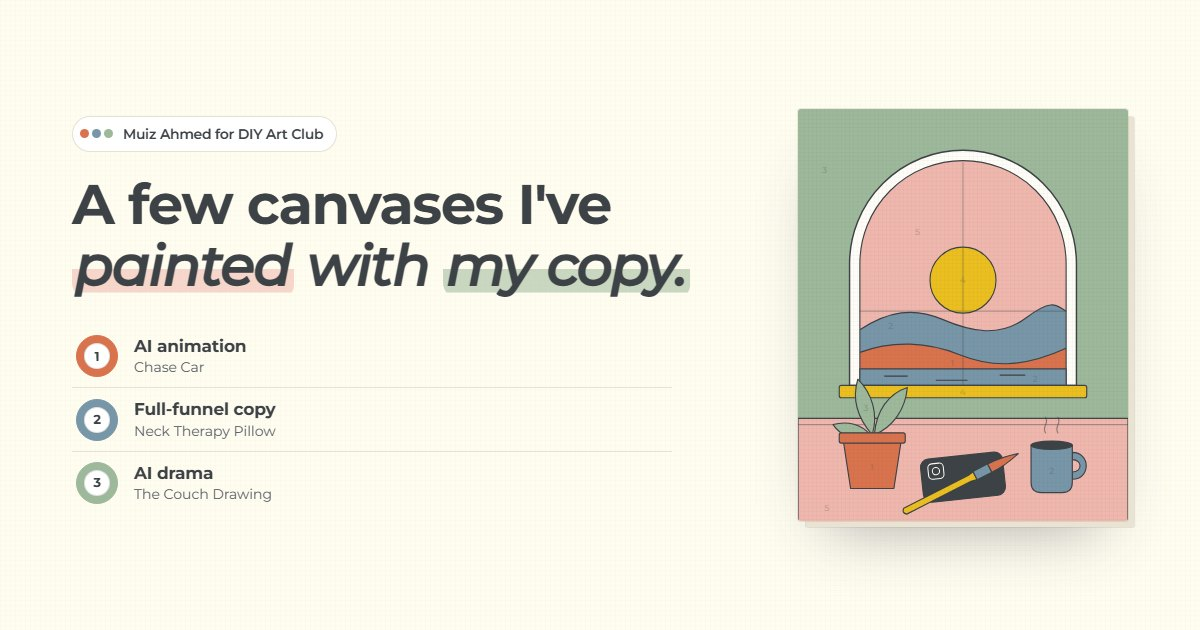
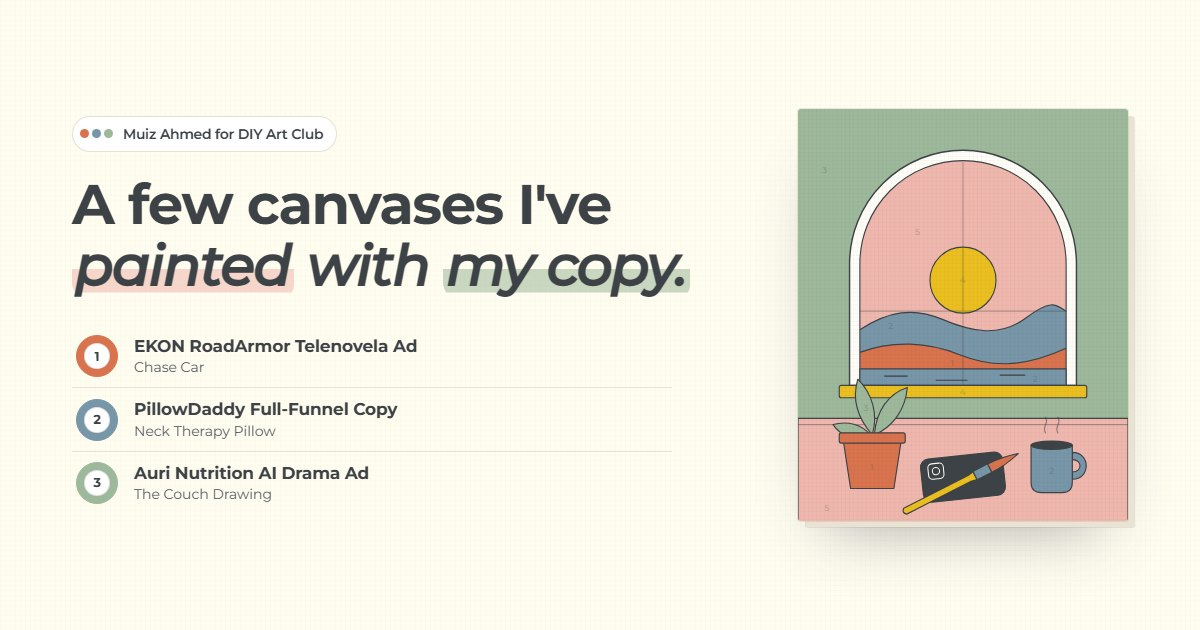
DIY Art Club page: brand names on the labels

Changed region(s): [[0.1233, 0.7238, 0.3083, 0.7841], [0.0925, 0.5429, 0.37, 0.573], [0.1233, 0.6333, 0.3392, 0.6635]]

diff --git a/for-diy-art-club/index.html b/for-diy-art-club/index.html
@@ -4,13 +4,13 @@
 <meta charset="utf-8">
 <meta name="viewport" content="width=device-width, initial-scale=1">
 <meta name="robots" content="noindex, nofollow">
-<meta name="description" content="A narrated AI animation story, full-funnel copy for one product and a dialogue AI drama, laid out as a paint-by-number canvas.">
+<meta name="description" content="An EKON RoadArmor telenovela ad, PillowDaddy full-funnel copy and an Auri Nutrition AI drama ad, laid out as a paint-by-number canvas.">
 <!-- Link previews (Open Graph / Twitter). URLs are absolute on the live domain. og.jpg is PROVISIONAL (see clients/diy-art-club/application-notes.md). -->
 <meta property="og:type" content="website">
 <meta property="og:site_name" content="Muiz Ahmed">
 <meta property="og:url" content="https://portfolio.muizahmed.com/for-diy-art-club/">
 <meta property="og:title" content="Muiz Ahmed for DIY Art Club">
-<meta property="og:description" content="A narrated AI animation story, full-funnel copy for one product and a dialogue AI drama, laid out as a paint-by-number canvas.">
+<meta property="og:description" content="An EKON RoadArmor telenovela ad, PillowDaddy full-funnel copy and an Auri Nutrition AI drama ad, laid out as a paint-by-number canvas.">
 <meta property="og:image" content="https://portfolio.muizahmed.com/for-diy-art-club/assets/og.jpg">
 <meta property="og:image:secure_url" content="https://portfolio.muizahmed.com/for-diy-art-club/assets/og.jpg">
 <meta property="og:image:type" content="image/jpeg">
@@ -19,7 +19,7 @@
 <meta property="og:image:alt" content="Muiz Ahmed: A few canvases I've painted with my copy. A paint-by-number canvas and its colour key.">
 <meta name="twitter:card" content="summary_large_image">
 <meta name="twitter:title" content="Muiz Ahmed for DIY Art Club">
-<meta name="twitter:description" content="A narrated AI animation story, full-funnel copy for one product and a dialogue AI drama, laid out as a paint-by-number canvas.">
+<meta name="twitter:description" content="An EKON RoadArmor telenovela ad, PillowDaddy full-funnel copy and an Auri Nutrition AI drama ad, laid out as a paint-by-number canvas.">
 <meta name="twitter:image" content="https://portfolio.muizahmed.com/for-diy-art-club/assets/og.jpg">
 <meta name="color-scheme" content="light">
 <meta name="theme-color" content="#FFFCF0">
@@ -491,9 +491,9 @@
 <header class="nav">
   <a class="brand" href="#top"><img class="avatar" src="assets/muiz-avatar.webp" srcset="assets/muiz-avatar.webp 1x, assets/muiz-avatar@2x.webp 2x" width="40" height="40" alt="Muiz Ahmed"><span class="brand-name">Muiz Ahmed</span></a>
   <nav class="nav-pots" aria-label="Sections">
-    <a class="pot" data-n="1" href="#animation"><b>1</b><span class="sr">AI animation</span></a>
-    <a class="pot" data-n="2" href="#funnel"><b>2</b><span class="sr">Full-funnel copy</span></a>
-    <a class="pot" data-n="3" href="#drama"><b>3</b><span class="sr">AI drama</span></a>
+    <a class="pot" data-n="1" href="#animation"><b>1</b><span class="sr">EKON RoadArmor Telenovela Ad</span></a>
+    <a class="pot" data-n="2" href="#funnel"><b>2</b><span class="sr">PillowDaddy Full-Funnel Copy</span></a>
+    <a class="pot" data-n="3" href="#drama"><b>3</b><span class="sr">Auri Nutrition AI Drama Ad</span></a>
     <a class="pot" data-n="4" href="#results"><b>4</b><span class="sr">Results</span></a>
     <a class="pot" data-n="5" href="#monday"><b>5</b><span class="sr">If I started on Monday</span></a>
     <a class="pot" data-n="6" href="#talk"><b>6</b><span class="sr">Let's talk</span></a>
@@ -524,9 +524,9 @@
         <p>What David asked for, and where it is.</p>
       </div>
       <ol class="key-list">
-        <li><a class="key-row" href="#animation" data-n="1"><span class="pot solid"><b>1</b></span><span class="key-txt"><strong>AI animation</strong><span>Chase Car &middot; a 5:40 narrated story in Pixar-style 3D</span></span><svg viewBox="0 0 24 24" fill="none" stroke="currentColor" stroke-width="2" stroke-linecap="round" stroke-linejoin="round" aria-hidden="true"><path d="M12 5v14M6 13l6 6 6-6"/></svg></a></li>
-        <li><a class="key-row" href="#funnel" data-n="2"><span class="pot solid"><b>2</b></span><span class="key-txt"><strong>Full-funnel copy</strong><span>Neck Therapy Pillow &middot; mini VSL, advertorial and UGC script</span></span><svg viewBox="0 0 24 24" fill="none" stroke="currentColor" stroke-width="2" stroke-linecap="round" stroke-linejoin="round" aria-hidden="true"><path d="M12 5v14M6 13l6 6 6-6"/></svg></a></li>
-        <li><a class="key-row" href="#drama" data-n="3"><span class="pot solid"><b>3</b></span><span class="key-txt"><strong>AI drama</strong><span>The Couch Drawing &middot; a dialogue AI drama for Auri Nutrition</span></span><svg viewBox="0 0 24 24" fill="none" stroke="currentColor" stroke-width="2" stroke-linecap="round" stroke-linejoin="round" aria-hidden="true"><path d="M12 5v14M6 13l6 6 6-6"/></svg></a></li>
+        <li><a class="key-row" href="#animation" data-n="1"><span class="pot solid"><b>1</b></span><span class="key-txt"><strong>EKON RoadArmor Telenovela Ad</strong><span>Chase Car &middot; a 5:40 narrated story in Pixar-style 3D</span></span><svg viewBox="0 0 24 24" fill="none" stroke="currentColor" stroke-width="2" stroke-linecap="round" stroke-linejoin="round" aria-hidden="true"><path d="M12 5v14M6 13l6 6 6-6"/></svg></a></li>
+        <li><a class="key-row" href="#funnel" data-n="2"><span class="pot solid"><b>2</b></span><span class="key-txt"><strong>PillowDaddy Full-Funnel Copy</strong><span>Neck Therapy Pillow &middot; mini VSL, advertorial and UGC script</span></span><svg viewBox="0 0 24 24" fill="none" stroke="currentColor" stroke-width="2" stroke-linecap="round" stroke-linejoin="round" aria-hidden="true"><path d="M12 5v14M6 13l6 6 6-6"/></svg></a></li>
+        <li><a class="key-row" href="#drama" data-n="3"><span class="pot solid"><b>3</b></span><span class="key-txt"><strong>Auri Nutrition AI Drama Ad</strong><span>The Couch Drawing &middot; a 3:30 story in photoreal dialogue scenes</span></span><svg viewBox="0 0 24 24" fill="none" stroke="currentColor" stroke-width="2" stroke-linecap="round" stroke-linejoin="round" aria-hidden="true"><path d="M12 5v14M6 13l6 6 6-6"/></svg></a></li>
       </ol>
     </div>
   </section>
@@ -602,9 +602,9 @@
     <div class="canvas-title"><strong>Hire Me Kit | Painted by <span class="nw">Hooks &amp; Scripts</span></strong><span class="progress" aria-live="off">6 of 6 colours</span></div>
     <span class="canvas-note hand" aria-hidden="true">scroll to paint it &darr;</span>
     <ol class="legend" aria-label="Colour key: page sections">
-      <li><a href="#animation" data-n="1"><span class="pot"><b>1</b></span>AI animation</a></li>
-      <li><a href="#funnel" data-n="2"><span class="pot"><b>2</b></span>Full-funnel copy</a></li>
-      <li><a href="#drama" data-n="3"><span class="pot"><b>3</b></span>AI drama</a></li>
+      <li><a href="#animation" data-n="1"><span class="pot"><b>1</b></span>EKON RoadArmor Telenovela Ad</a></li>
+      <li><a href="#funnel" data-n="2"><span class="pot"><b>2</b></span>PillowDaddy Full-Funnel Copy</a></li>
+      <li><a href="#drama" data-n="3"><span class="pot"><b>3</b></span>Auri Nutrition AI Drama Ad</a></li>
       <li><a href="#results" data-n="4"><span class="pot"><b>4</b></span>Results</a></li>
       <li><a href="#monday" data-n="5"><span class="pot"><b>5</b></span>If I started on Monday</a></li>
       <li><a href="#talk" data-n="6"><span class="pot"><b>6</b></span>Let's talk</a></li>
@@ -619,7 +619,7 @@
         <span class="pot pot-xl solid" aria-hidden="true"><b>1</b></span>
         <h2 id="animation-h">Chase Car</h2>
       </div>
-      <p class="meta reveal"><b class="kind">AI animation</b> <i>/</i> EKON RoadArmor &middot; spec <i>/</i> 5:40 <i>/</i> Pixar-style 3D <i>/</i> narrated over music</p>
+      <p class="meta reveal"><b class="kind">Telenovela ad</b> <i>/</i> EKON RoadArmor &middot; spec <i>/</i> 5:40 <i>/</i> Pixar-style 3D <i>/</i> narrated over music</p>
       <!-- DRAFT copy -->
       <p class="intro reveal">A 54-year-old biker whose wife follows him home from the bar in her minivan, every ride, for two years. One man's voice, one signature sound, and a product that only shows up once the story has earned it.</p>
 
